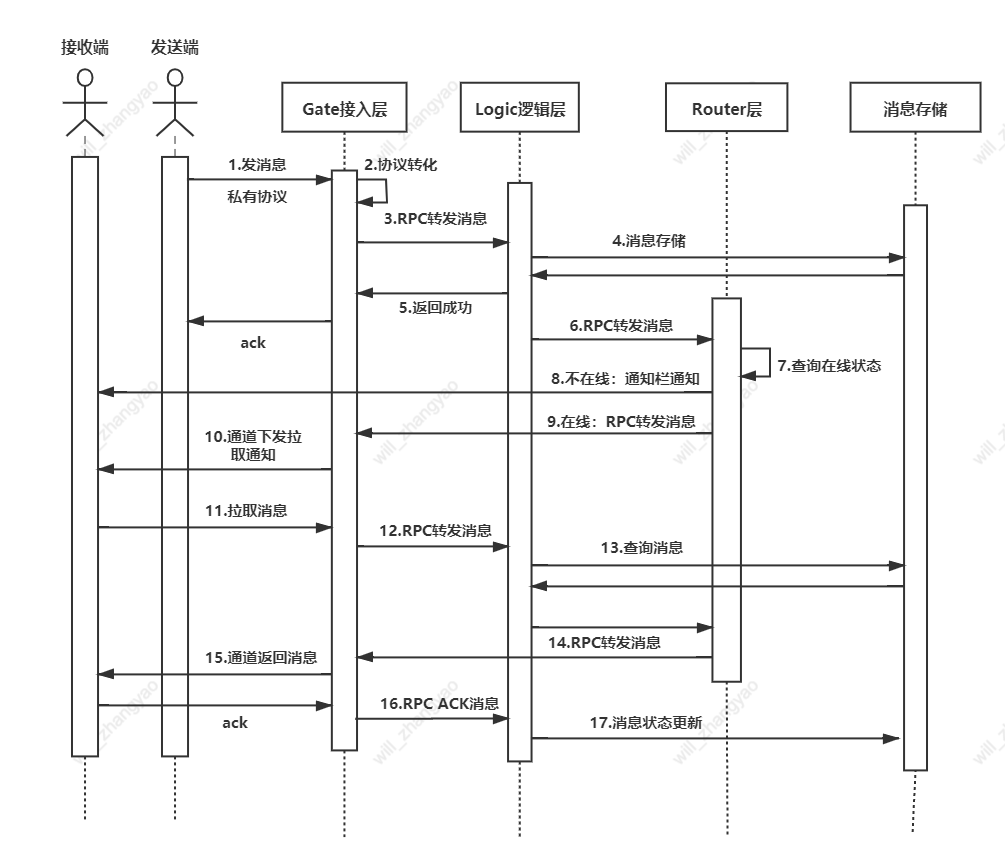
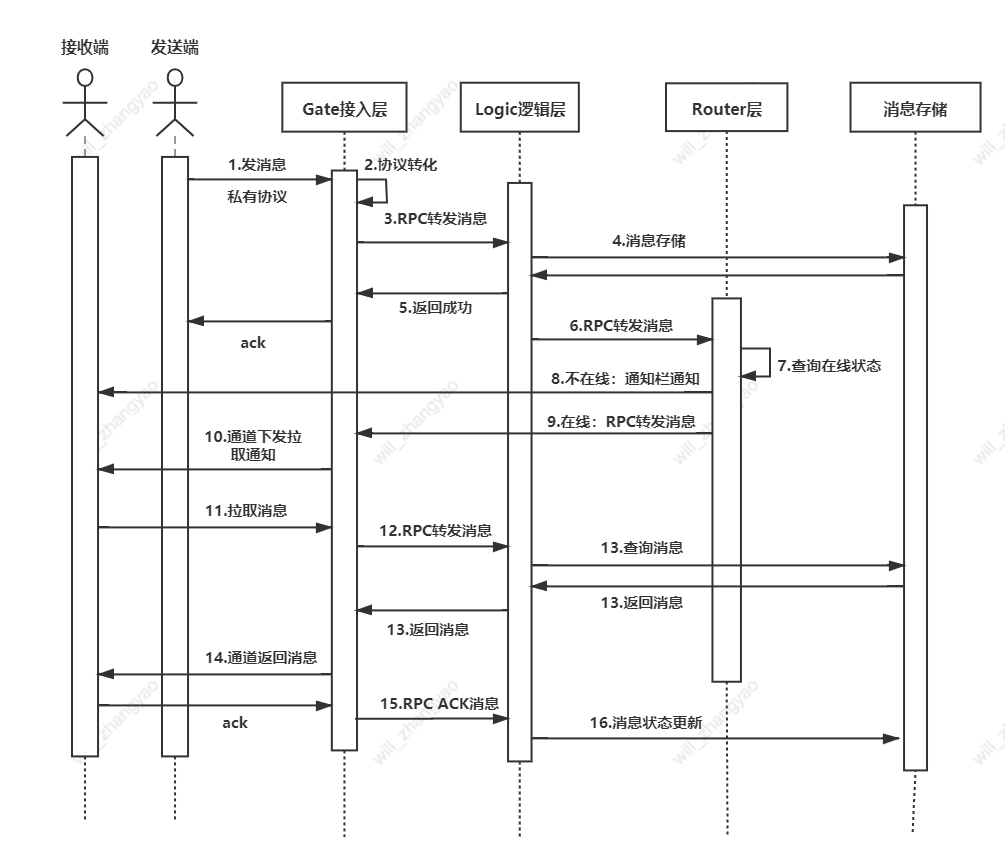
1、完善文档 2、推拉模型图优化

Changed region(s): [[0.3393, 0.6937, 0.7095, 0.7842]]

diff --git a/fastim-gate/fastim-gate-tcp/src/main/java/com/zyblue/fastim/fastim/gate/tcp/server/FastImServer.java b/fastim-gate/fastim-gate-tcp/src/main/java/com/zyblue/fastim/fastim/gate/tcp/server/FastImServer.java
@@ -49,7 +49,6 @@ public class FastImServer {
         LoggingHandler loggingHandler = new LoggingHandler(LogLevel.INFO);
         GateAuthHandler gateAuthHandler = new GateAuthHandler();
         GateMetricsHandler gateMetricsHandler = new GateMetricsHandler();
-        GateLimitHandler gateLimitHandler = new GateLimitHandler();
         GateServiceSelfProtectHandler gateServiceSelfProtectHandler = new GateServiceSelfProtectHandler();
         GateDynamicRouteHandler gateDynamicRouteHandler = new GateDynamicRouteHandler();
         GateProtocolConversionHandler gateProtocolConversionHandler = new GateProtocolConversionHandler();
@@ -77,7 +76,7 @@ public class FastImServer {
                                 .addLast(gateMetricsHandler)
                                 .addLast(loggingHandler)
                                 .addLast(gateAuthHandler)
-                                .addLast(gateLimitHandler)
+                                .addLast("limitHandler", new GateLimitHandler())
                                 .addLast(gateServiceSelfProtectHandler)
                                 .addLast(gateDynamicRouteHandler)
                                 .addLast(gateProtocolConversionHandler)

diff --git a/fastim-gate/fastim-gate-tcp/src/main/java/com/zyblue/fastim/fastim/gate/tcp/handler/gate/GateLimitHandler.java b/fastim-gate/fastim-gate-tcp/src/main/java/com/zyblue/fastim/fastim/gate/tcp/handler/gate/GateLimitHandler.java
@@ -1,20 +1,25 @@
 package com.zyblue.fastim.fastim.gate.tcp.handler.gate;
 
+import com.google.common.util.concurrent.RateLimiter;
 import com.zyblue.fastim.common.codec.FastImMsg;
-import io.netty.channel.ChannelHandler;
 import io.netty.channel.ChannelHandlerContext;
 import io.netty.channel.SimpleChannelInboundHandler;
 
 /**
  * @author will
  * @date 2021/4/30 11:37
- *
+ * <p>
  * 限流处理
  */
-@ChannelHandler.Sharable
 public class GateLimitHandler extends SimpleChannelInboundHandler<FastImMsg> {
+
+    private final RateLimiter limiter = RateLimiter.create(5);
+
     @Override
     protected void channelRead0(ChannelHandlerContext channelHandlerContext, FastImMsg protocol) throws Exception {
+        if (!limiter.tryAcquire()) {
+           // channelHandlerContext.writeAndFlush();
+        }
         channelHandlerContext.fireChannelRead(protocol);
 
     }

diff --git a/README.md b/README.md
@@ -24,6 +24,7 @@
 * [ ] 心跳保活
 * [x] [客户端未ack消息重试](#客户端未ack消息重试)
 * [ ] 客户端断线自动重连
+* [ ] 消息未读计数
 * [ ] 聊天记录存储和查询
 * [ ] 登录、注册、登出实现
 * [ ] 通讯协议支持HTTP/2
@@ -35,7 +36,7 @@
 * [ ] 协议支持消息加密
 * [ ] 群红包
 * [ ] 消息撤回
-* [ ] 已读未读
+* [ ] 消息已读
 
 ## 三、快速启动
 ## 四、系统设计
@@ -69,6 +70,12 @@
     - 灵活的负载均衡策略 可根据最少连接数来分配IP
     - 做灰度策略来分配IP
     - AppId业务隔离策略 不同业务连接不同的gate，防止相互影响
+    
+##### 2.1.0 LSB优化
+问题背景：当某个实例重启后，该实例的连接断开后，客户端会发起重连，重连就大概率转移其他实例上，导致最近启动的实例连接数较少，最早启动的实例连接数较多
+解决方法：
+1. 客户端会发起重连，跟服务器申请重连的新的服务器IP，系统提供合适的算法来平摊gate层的压力，防止雪崩效应。
+2. gate层定时上报本机的元数据信息以及连接数信息，提供给LSB中心，LSB根据最少连接数负载均衡实现，来计算一个节点供连接。
 
 #### 2.2 GATE设计：
 GATE层网关有以下特性：
@@ -297,44 +304,18 @@ IM协议采用二进制定长包头和变长包体来实现客户端和服务端
 一个请求包的数据经网关的架构图：
 ![网关的架构图](https://github.com/zhangyaoo/fastim/blob/master/pic/HTTP-gate.png)
 
-### 9. 业务优化
-
-#### 9.0 性能优化
-1. 对消息的查询处理：
- - 短期消息(7天)：存储在Redis里；
- - 近期消息(1-3个月)：存储在Mysql里，以备用户实时查询；
- - 历史信息：存储在HBase里，作为历史数据慢查询
-
-2. 对消息的写入处理：
- - 对并发不高的场景直接rpc调用
- - 对高并发场景可以引入Kafka
- - 写入量巨大时，水平切分能够扩容，MQ缓冲可以保护数据库
+### 9. 万人群聊优化
+#### 9.1 难点
+消息扇出大，比如每秒群聊有50条消息，群聊2000人，那么光一个群对系统并发就有10W的消息扇出
  
-#### 9.1 LSB优化
-问题背景：当某个实例重启后，该实例的连接断开后，客户端会发起重连，重连就大概率转移其他实例上，导致最近启动的实例连接数较少，最早启动的实例连接数较多
-
-解决方法：
-1. 客户端会发起重连，跟服务器申请重连的新的服务器IP，系统提供合适的算法来平摊gate层的压力，防止雪崩效应。
-
-2. gate层定时上报本机的元数据信息以及连接数信息，提供给LSB中心，LSB根据最少连接数负载均衡实现，来计算一个节点供连接。
-
-#### 9.2 群聊优化
-1. 批量ACK：每条群消息都ACK，会给服务器造成巨大的冲击，为了减少ACK请求量，批量ACK。
+#### 9.2 优化
+1. 批量ACK：每条群消息都ACK，会给服务器造成巨大的冲击，为了减少ACK请求量，参考TCP的Delay ACK机制，在接收方层面进行批量ACK。
 2. 群消息和成员批量加载以及懒加载：在真正进入一个群时才实时拉取群友的数据
-3. 群离线消息过多：分页拉取（按需拉取）,批量ACK
-4. 对于消息未读数场景，每个用户维护一个全局的未读数和每个群组的未读数，当群聊非常大时，未读资源变更的QPS非常大。这个时候应用层对未读数进行缓存，利用buffer接收变更请求，然后定时或者定量刷库机制来入库。
-
-#### 9.3 存储库的选型
-
-1. 前期消息不多的场景可以使用MySQL进行分库分表，当系统瓶颈在数据库的时候，就要进行额外的选型了
-2. 分析IM消息特征
- - 根据消息ID查某一条消息，要么根据一个消息要检索这个范围之间的消息，不需要强的事务型数据库
- - 当数据量大的时候，如果对关系型数据库比如MySQL进行分库分表，运维成本加上开发成本会非常高
-3. 可考虑NoSQL 方案,如
-- K-V存储 Redis
- - 文档数据库 MongoDB
-  - 列式数据库 HBase
-   - 全文搜索引擎 ElasticSearch
+3. 群离线消息过多：群消息分页拉取,第二次拉取请求作为第一次拉取请求的ack
+4. 对于消息未读数场景，每个用户维护一个全局的未读数和每个会话的未读数，当群聊非常大时，未读资源变更的QPS非常大。这个时候应用层对未读数进行缓存，批量写+定时写来保证未读计数的写入性能
+5. 路由信息存入redis会有写入和读取的性能瓶颈，每条消息在发出的时候会查路由信息来发送对应的gate接入层，比如有10个群，每个群1W，那么1s100条消息，那么1000W的查询会打满redis，即使redis做了集群。优化的思路就是将集中的路由信息分散到Router JVM本地内存中，然后做Route可用，避免单点故障。
+6. 存储的优化，扩散写写入并发量巨大，另一方面也存在存储浪费，一般优化成扩散读的方式存储
+7. 消息路由到相同接入层机器进行合并请求减少网络包传输
 
 ### 10. 心跳设计
 1. 服务端检测到某个客户端迟迟没有心跳过来可以主动关闭通道，让它下线；
@@ -385,8 +366,7 @@ id|int|自增ID
 group_id|int|群ID
 user_id|bigint|用户ID
 join_time|datetime|加群时间
-last_ack_msg_id|bigint|最后一次ack的消息ID
-user_device_type|tinyint|用户设备类型
+active_time|datetime|活跃时间
 is_deleted|tinyint|是否删除
 create_time|datetime|创建时间
 update_time|datetime|更新时间
@@ -398,6 +378,7 @@ id|int|自增ID
 group_id|int|群ID
 user_id|bigint|用户ID
 last_ack_msg_id|bigint|最后一次ack的消息ID
+user_device_type|tinyint|用户设备类型
 is_deleted|tinyint|是否删除,根据这个字段后续可以做冷备归档
 create_time|datetime|创建时间
 update_time|datetime|更新时间
@@ -406,8 +387,8 @@ update_time|datetime|更新时间
 字段|类型|描述
 ---|---|---
 id|int|自增ID
+msg_id|bigint|消息ID
 group_id|int|群ID
-group_msg_id|bigint|群消息ID
 sender_id|bigint|发送方ID
 msg_type|int|消息类型
 msg_content|varchar|消息内容
@@ -419,6 +400,7 @@ update_time|datetime|更新时间
 字段|类型|描述
 ---|---|---
 id|int|自增ID
+msg_id|bigint|消息ID
 sender_id|bigint|发送方ID
 receiver_id|bigint|接收方ID
 receiver_device_type|tinyint|接收方设备类型
@@ -429,6 +411,21 @@ is_deleted|tinyint|是否删除
 create_time|datetime|创建时间
 update_time|datetime|更新时间
 
+#### 个人会话表 t_conversation
+字段|类型|描述
+---|---|---
+id|int|自增ID
+conversation_id|int|会话ID
+user_id|bigint|用户ID
+conversation_type|tinyint|会话类型 1=单聊 2=群聊
+receiver_id|bigint|接收方ID 单聊为个人用户ID 群聊为群ID
+last_sequence_id|int|客户端最新一条消息序号
+last_msg_id|bigint|客户端最新一条消息对应的ID
+last_msg_receive_time|datetime|客户端最新一条消息接收时间
+is_deleted|tinyint|会话是否删除
+create_time|datetime|会话创建时间
+update_time|datetime|更新时间
+
 ### 13 核心业务流程
 #### 13.0 用户A发消息给用户B 【单聊】
 - A通过账号密码登录获取token，以及接入层IP和port信息
@@ -436,15 +433,15 @@ update_time|datetime|更新时间
 - 服务层校验token，token校验通过
 - A打包数据发送给服务端， 服务端检测A用户是否风险用户
 - 服务端对消息进行敏感词检查，以及发送频率的限制检查
-- 服务端生成递增的消息ID，将发送的信息和ID打包一块入库，入库成功后返回ACK
+- 服务端接收消息后，根据接收消息的sequence_id来进行客户端发送消息的去重，并且生成递增的消息ID，将发送的信息和ID打包一块入库，入库成功后返回ACK，ACK包带上服务端生成的消息ID
 - 服务端检测接收用户B是否在线，在线直接推送给用户B
-- 如果没有本地消息ID则存入，并且返回接入层ACK信息；如果有则拿本地消息ID和推送过来的消息ID大小对比，小获等于则丢弃，大则接收。最后返回接入层ack
+- 如果没有本地消息ID则存入，并且返回接入层ACK信息；如果有则拿本地sequence_id和推送过来的sequence_id大小对比，并且去重，进行展现时序进行排序展示，并且记录最新一条消息ID。最后返回接入层ack
 - 服务端接收ACK后，将消息标为已送达
 - 如果用户B不在线,首先将消息存入库中，然后直接通过手机通知来告知客户新消息到来
 - 用户B上线后，拿本地最新的消息ID，去服务端拉取所有好友发送给B的消息，考虑到一次拉取所有消息数据量大，通过channel通道来进行分页拉取，将上一次拉取消息的最大的ID，作为请求参数，来请求最新一页的比ID大的数据。
 
 #### 13.1 用户A发消息给群G 【群聊】
-- 登录，TCP连接，token校验，名词检查，群消息入库成功返回发送方ACK
+- 登录，TCP连接，token校验，名词检查，sequence_id去重，生成递增的消息ID，群消息入库成功返回发送方ACK
 - 查询群G所有的成员，然后去redis中央存储中找在线状态。离线和在线成员分不同的方式处理
 - 在线成员：并行发送拉取通知，等待在线成员过来拉取，发送拉取通知包如丢失会有兜底机制
 - 在线成员过来拉取，会带上这个群标识和上一次拉取群的最小消息ID，服务端会找比这个消息ID大的所有的数据返回给客户端，等待客户端ACK。一段时间没ack继续推送。如果重试几次后没有回ack，那么关闭连接和清除ack等待队列消息
@@ -496,6 +493,25 @@ receive_order_no|datetime|收款订单号
 is_deleted|tinyint|是否删除
 create_time|datetime|创建时间
 update_time|datetime|更新时间
+
+
+### 15 消息未读数设计
+#### 15.1 实现
+1. 每发一个消息，消息接收者的会话未读数+1，并且接收者所有未读数+1
+2. 消息接收者返回消息接收确认ack后，消息未读数会-1
+
+#### 15.2 分布式锁保证总未读数和会话未读数一致
+1. 不一致原因：当总未读数增加，这个时候客户端来了请求将未知数置0，然后再增加会话未读数，那么会导致不一致
+2. 保证：为了保证总未读数和会话未读数原子性，需要用分布式锁来保证
+
+#### 15.3 万人群聊难点和优化
+##### 难点
+一个群聊每秒几百的并发聊天，比如消息未读数，相当于每秒W级别的写入redis，即便redis做了集群数据分片+主从，但是写入还是单节点，会有写入瓶颈
+
+##### 优化
+群ID分组或者用户ID分组，批量写入，写入的两种方式
+1. 定时flush
+2. 满多少消息进行flush
 
 ## 五、性能测试
 ### 机器配置
